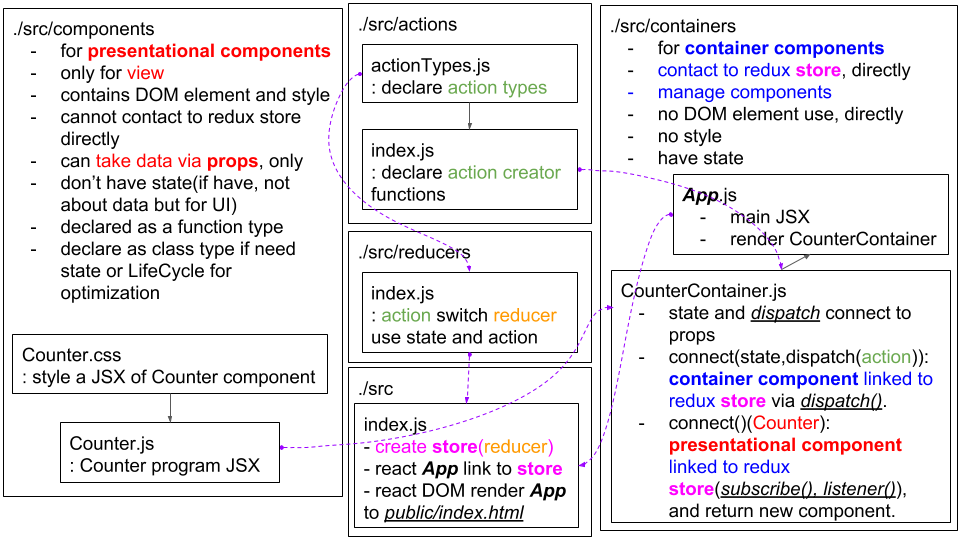
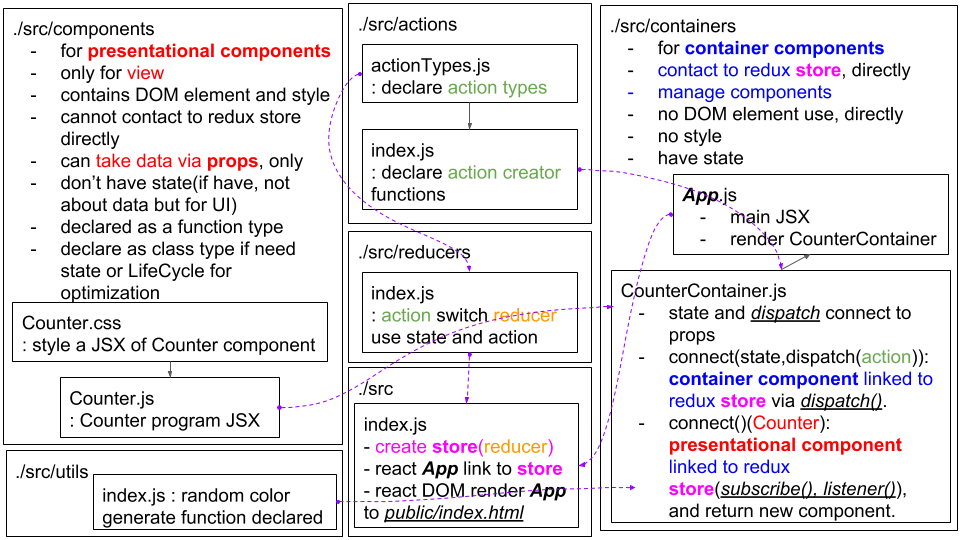
version 0.2, applied combine reducer. Image updated to ver 0.2, image ver 0.1 minor modify

diff --git a/src/reducers/index.js b/src/reducers/index.js
@@ -5,33 +5,14 @@ switch 문법을 통해 action.type에 따라 상태변화를 정의함
 state 직접 수정하면 안됨. 기존 state를 덮어쓰는 새 상태객체를 만들어야 함
 */
 
-import * as types from '../actions/ActionTypes'
+import number from './number';
+import color from './color';
 
-const initialState = {//최초 변화를 일으키기 전 초기상태가 필요함
-  color: 'black',
-  number: 0
-};
+import { combineReducers } from 'redux';
 
-function counter(state = initialState, action){
-  switch (action.type) {
-    case types.INCREMENT:
-      return {
-        ...state,
-        number: state.number + 1
-      };
-    case types.DECREMENT:
-      return {
-        ...state,
-        number: state.number - 1
-      };
-    case types.SET_COLOR:
-      return {
-        ...state,
-        color: action.color
-      };
-    default:
-      return state;
-  }
-};
+const reducers = combineReducers({
+  numberData: number,
+  colorData: color
+});
 
-export default counter;
+export default reducers;

diff --git a/src/containers/CounterContainer.js b/src/containers/CounterContainer.js
@@ -5,8 +5,8 @@ import { getRandomColor } from '../utils'
 
 // state value of store is connected to props
 const mapStateToProps = (state) => ({
-  color: state.color,
-  number: state.number
+  color: state.colorData.color,
+  number: state.numberData.number
 });
 
 //dispatch(createdActionObj) is connected to props

diff --git a/README.md b/README.md
@@ -8,7 +8,7 @@ Counter with color changing. Redux applied to React.
 
 ## Architecture(UML diagram like)
 <p align="center">
-  <img width="80%" src="./image/reactWithRedux_ver0.1.png">
+  <img width="80%" src="./image/reactWithRedux_ver0.2(combineReduce).png">
 </p>
 
 ## Reference
